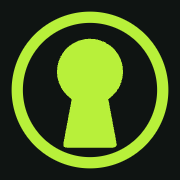
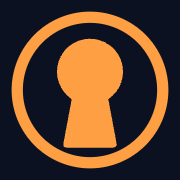
Retheme site to navy and amber palette (#1)
Replace the lime/chartreuse tokens with CSS custom properties for the navy + amber dark theme, update buttons and focus rings, and recolor favicons and platform icons to match while leaving page copy unchanged.

diff --git a/index.html b/index.html
@@ -10,17 +10,19 @@
 <link rel="icon" href="favicon.svg" type="image/svg+xml">
 <link rel="apple-touch-icon" href="apple-touch-icon.png">
 <link rel="manifest" href="site.webmanifest">
-<meta name="theme-color" content="#0F1412">
+<meta name="theme-color" content="#0B1120">
 <link rel="stylesheet" href="https://fonts.googleapis.com/css2?family=Saira+Stencil+One&family=Saira+Condensed:wght@600;700&family=Saira:wght@400;500&display=swap">
 <style>
 :root{
-  --ground:#0F1412;
-  --panel:#151B18;
-  --line:#26302B;
-  --bone:#E9EEE7;
-  --mist:#9AA69F;
-  --lime:#B8F03A;
-  --lime-dim:#7FA92B;
+  --ground:#0B1120;
+  --panel:#121A2C;
+  --line:#26324A;
+  --text:#E8EDF6;
+  --muted:#9AA8C0;
+  --accent:#FF9F43;
+  --accent-hover:#FFB56B;
+  --accent-pressed:#E8862A;
+  --on-accent:#0B1120;
   box-sizing:border-box;
   padding-top:env(safe-area-inset-top,0px);
   padding-bottom:env(safe-area-inset-bottom,0px);
@@ -28,23 +30,23 @@
 html{scroll-padding-top:env(safe-area-inset-top,0px);scroll-behavior:smooth}
 *,*::before,*::after{box-sizing:inherit}
 body{
-  margin:0;background:var(--ground);color:var(--bone);
+  margin:0;background:var(--ground);color:var(--text);
   font-family:'Saira',system-ui,sans-serif;font-size:17px;line-height:1.6;
   -webkit-font-smoothing:antialiased;
 }
-a{color:var(--lime)}
-a:focus-visible,button:focus-visible{outline:2px solid var(--lime);outline-offset:4px}
+a{color:var(--accent)}
+a:focus-visible,button:focus-visible{outline:2px solid var(--accent);outline-offset:2px}
 .wrap{width:min(1100px,100% - 48px);margin-inline:auto}
 
 /* nav */
 .nav{display:flex;align-items:center;justify-content:space-between;padding:28px 0}
-.brand{display:flex;align-items:center;gap:14px;text-decoration:none;color:var(--bone)}
-.brand svg{width:44px;height:44px}
+.brand{display:flex;align-items:center;gap:14px;text-decoration:none;color:var(--text)}
+.brand svg{width:44px;height:44px;color:var(--accent)}
 .brand .word{font-family:'Saira Stencil One',Impact,sans-serif;font-size:22px;letter-spacing:2px;line-height:1}
-.brand .labs{font-family:'Saira Condensed',sans-serif;font-weight:600;font-size:13px;letter-spacing:5px;color:var(--lime);margin-left:8px}
+.brand .labs{font-family:'Saira Condensed',sans-serif;font-weight:600;font-size:13px;letter-spacing:5px;color:var(--accent);margin-left:8px}
 .nav-links{display:flex;gap:28px}
-.nav-links a{color:var(--mist);text-decoration:none;font-size:15px}
-.nav-links a:hover{color:var(--bone)}
+.nav-links a{color:var(--muted);text-decoration:none;font-size:15px}
+.nav-links a:hover{color:var(--text)}
 @media (max-width:640px){.nav-links{display:none}}
 
 /* hero */
@@ -52,20 +54,24 @@ a:focus-visible,button:focus-visible{outline:2px solid var(--lime);outline-offse
 .hero h1{
   font-family:'Saira Condensed',sans-serif;font-weight:700;
   font-size:clamp(56px,8vw,112px);line-height:.92;letter-spacing:-.5px;margin:0 0 28px;
+  color:var(--text);
 }
 .hero h1 span{display:block}
-.hero p{font-size:19px;max-width:34em;color:var(--mist);margin:0 0 36px}
-.hero p strong{color:var(--bone);font-weight:500}
+.hero p{font-size:19px;max-width:34em;color:var(--muted);margin:0 0 36px}
+.hero p strong{color:var(--text);font-weight:500}
 .actions{display:flex;gap:16px;flex-wrap:wrap}
 .btn{
-  display:inline-block;padding:14px 26px;border-radius:6px;text-decoration:none;
+  display:inline-flex;align-items:center;justify-content:center;
+  min-height:44px;padding:10px 26px;border-radius:8px;text-decoration:none;
   font-family:'Saira Condensed',sans-serif;font-weight:600;font-size:18px;letter-spacing:.5px;
 }
-.btn-lime{background:var(--lime);color:var(--ground)}
-.btn-lime:hover{background:#C9F75A}
-.btn-ghost{color:var(--bone);border:1px solid var(--line)}
-.btn-ghost:hover{border-color:var(--mist)}
-.mark{justify-self:center;width:min(100%,380px)}
+.btn:focus-visible{outline:2px solid var(--accent);outline-offset:2px}
+.btn-primary{background:var(--accent);color:var(--on-accent);border:none}
+.btn-primary:hover{background:var(--accent-hover);color:var(--on-accent)}
+.btn-primary:active{background:var(--accent-pressed);color:var(--on-accent)}
+.btn-ghost{color:var(--text);background:transparent;border:2px solid var(--muted)}
+.btn-ghost:hover{border-color:var(--muted);color:var(--text)}
+.mark{justify-self:center;width:min(100%,380px);color:var(--accent)}
 .mark svg{width:100%;height:auto;display:block}
 @media (max-width:860px){
   .hero{grid-template-columns:1fr;padding:24px 0 72px}
@@ -89,53 +95,53 @@ h2{
 @media (max-width:760px){.two{grid-template-columns:1fr;gap:36px}}
 .two h3{
   font-family:'Saira Condensed',sans-serif;font-weight:600;font-size:28px;margin:0 0 12px;
-  padding-left:18px;border-left:4px solid var(--lime);line-height:1.1;
+  padding-left:18px;border-left:4px solid var(--accent);line-height:1.1;
 }
-.two p{color:var(--mist);margin:0 0 14px;max-width:38em}
+.two p{color:var(--muted);margin:0 0 14px;max-width:38em}
 .callout{
   margin-top:48px;padding:28px 32px;background:var(--panel);border-radius:8px;
-  border-left:4px solid var(--lime);max-width:52em;
+  border-left:4px solid var(--accent);max-width:52em;
 }
 .callout p{margin:0;font-size:19px}
-.callout p + p{margin-top:10px;color:var(--mist);font-size:16px}
+.callout p + p{margin-top:10px;color:var(--muted);font-size:16px}
 
 /* tags */
 .tags{margin-top:48px}
 .tags h3{
   font-family:'Saira Condensed',sans-serif;font-weight:600;font-size:14px;letter-spacing:4px;
-  text-transform:uppercase;color:var(--lime);margin:0 0 16px;
+  text-transform:uppercase;color:var(--accent);margin:0 0 16px;
 }
 .tags ul{list-style:none;margin:0;padding:0;display:flex;flex-wrap:wrap;gap:10px}
 .tags li{
-  padding:7px 14px;border:1px solid var(--line);border-radius:999px;
+  padding:7px 14px;border:1px solid var(--muted);border-radius:999px;
   font-family:'Saira Condensed',sans-serif;font-weight:600;font-size:15px;letter-spacing:.5px;
-  color:var(--mist);background:var(--panel);
+  color:var(--muted);background:var(--panel);
 }
-.tags li:hover{border-color:var(--lime-dim);color:var(--bone)}
+.tags li:hover{border-color:var(--muted);color:var(--text)}
 
 /* apps */
 .apps{display:grid;grid-template-columns:repeat(3,1fr);gap:24px}
 @media (max-width:760px){.apps{grid-template-columns:1fr}}
 .app{padding:24px 26px 26px;background:var(--panel);border-radius:8px;border:1px solid var(--line)}
 .app h3{font-family:'Saira Condensed',sans-serif;font-weight:600;font-size:26px;margin:0 0 8px;line-height:1}
-.app p{margin:0;color:var(--mist);font-size:16px}
-.stack{margin-top:24px;color:var(--mist);font-size:15px;max-width:50em}
+.app p{margin:0;color:var(--muted);font-size:16px}
+.stack{margin-top:24px;color:var(--muted);font-size:15px;max-width:50em}
 
 /* founder */
 .founder{display:grid;grid-template-columns:auto 1fr;gap:56px;align-items:center}
 @media (max-width:760px){.founder{grid-template-columns:1fr;gap:32px}}
-.founder p{color:var(--mist);margin:0 0 16px;max-width:38em}
+.founder p{color:var(--muted);margin:0 0 16px;max-width:38em}
 .founder p:last-child{margin-bottom:0}
-.founder p strong{color:var(--bone);font-weight:500}
+.founder p strong{color:var(--text);font-weight:500}
 .portrait{
   width:240px;height:240px;border-radius:50%;object-fit:cover;object-position:center top;display:block;
-  border:4px solid var(--lime);padding:5px;background:var(--ground);
+  border:4px solid var(--accent);padding:5px;background:var(--ground);
 }
 @media (max-width:760px){.portrait{width:180px;height:180px}}
 
 /* contact */
-.contact p{color:var(--mist);max-width:38em;margin:0 0 28px;font-size:19px}
-footer{padding:36px 0 48px;border-top:1px solid var(--line);color:var(--mist);font-size:14px;display:flex;justify-content:space-between;flex-wrap:wrap;gap:12px}
+.contact p{color:var(--muted);max-width:38em;margin:0 0 28px;font-size:19px}
+footer{padding:36px 0 48px;border-top:1px solid var(--line);color:var(--muted);font-size:14px;display:flex;justify-content:space-between;flex-wrap:wrap;gap:12px}
 </style>
 </head>
 <body>
@@ -148,15 +154,15 @@ footer{padding:36px 0 48px;border-top:1px solid var(--line);color:var(--mist);fo
           <clipPath id="ck"><path d="M120 64 A36 36 0 0 1 140 130 L149 178 Q150 183 145 183 H95 Q90 183 91 178 L100 130 A36 36 0 0 1 120 64 Z"/></clipPath>
           <clipPath id="ci"><circle cx="120" cy="120" r="93"/></clipPath>
         </defs>
-        <circle cx="120" cy="120" r="100" fill="none" stroke="#B8F03A" stroke-width="7"/>
+        <circle cx="120" cy="120" r="100" fill="none" stroke="currentColor" stroke-width="7"/>
         <g clip-path="url(#ci)">
-          <path d="M0 118 C 30 102, 50 134, 80 118 S 130 102, 160 118 S 210 134, 240 118" fill="none" stroke="#B8F03A" stroke-width="6" stroke-linecap="round"/>
-          <path d="M0 146 C 30 130, 50 162, 80 146 S 130 130, 160 146 S 210 162, 240 146" fill="none" stroke="#B8F03A" stroke-width="6" stroke-linecap="round"/>
+          <path d="M0 118 C 30 102, 50 134, 80 118 S 130 102, 160 118 S 210 134, 240 118" fill="none" stroke="currentColor" stroke-width="6" stroke-linecap="round"/>
+          <path d="M0 146 C 30 130, 50 162, 80 146 S 130 130, 160 146 S 210 162, 240 146" fill="none" stroke="currentColor" stroke-width="6" stroke-linecap="round"/>
         </g>
-        <path d="M120 64 A36 36 0 0 1 140 130 L149 178 Q150 183 145 183 H95 Q90 183 91 178 L100 130 A36 36 0 0 1 120 64 Z" fill="#B8F03A"/>
+        <path d="M120 64 A36 36 0 0 1 140 130 L149 178 Q150 183 145 183 H95 Q90 183 91 178 L100 130 A36 36 0 0 1 120 64 Z" fill="currentColor"/>
         <g clip-path="url(#ck)">
-          <path d="M0 118 C 30 102, 50 134, 80 118 S 130 102, 160 118 S 210 134, 240 118" fill="none" stroke="#0F1412" stroke-width="10" stroke-linecap="round"/>
-          <path d="M0 146 C 30 130, 50 162, 80 146 S 130 130, 160 146 S 210 162, 240 146" fill="none" stroke="#0F1412" stroke-width="10" stroke-linecap="round"/>
+          <path d="M0 118 C 30 102, 50 134, 80 118 S 130 102, 160 118 S 210 134, 240 118" fill="none" stroke="var(--ground)" stroke-width="10" stroke-linecap="round"/>
+          <path d="M0 146 C 30 130, 50 162, 80 146 S 130 130, 160 146 S 210 162, 240 146" fill="none" stroke="var(--ground)" stroke-width="10" stroke-linecap="round"/>
         </g>
       </svg>
       <span class="word">ROGUE RIVER<span class="labs">LABS</span></span>
@@ -176,7 +182,7 @@ footer{padding:36px 0 48px;border-top:1px solid var(--line);color:var(--mist);fo
       <h1><span>Build it.</span><span>Break it.</span><span>Lock it down.</span></h1>
       <p>Rogue River Labs builds mobile apps and the APIs behind them, and finds where access checks break. <strong>We write the locks, so we know where teams forget to check them.</strong></p>
       <div class="actions">
-        <a class="btn btn-lime" href="#contact">Get in touch</a>
+        <a class="btn btn-primary" href="#contact">Get in touch</a>
         <a class="btn btn-ghost" href="#work">See what we do</a>
       </div>
     </div>
@@ -186,16 +192,16 @@ footer{padding:36px 0 48px;border-top:1px solid var(--line);color:var(--mist);fo
           <clipPath id="hk"><path d="M120 64 A36 36 0 0 1 140 130 L149 178 Q150 183 145 183 H95 Q90 183 91 178 L100 130 A36 36 0 0 1 120 64 Z"/></clipPath>
           <clipPath id="hi"><circle cx="120" cy="120" r="93"/></clipPath>
         </defs>
-        <circle cx="120" cy="120" r="100" fill="none" stroke="#B8F03A" stroke-width="5"/>
-        <path d="M120 5 V14 M120 226 V235 M5 120 H14 M226 120 H235" stroke="#B8F03A" stroke-width="3" stroke-linecap="square"/>
+        <circle cx="120" cy="120" r="100" fill="none" stroke="currentColor" stroke-width="5"/>
+        <path d="M120 5 V14 M120 226 V235 M5 120 H14 M226 120 H235" stroke="currentColor" stroke-width="3" stroke-linecap="square"/>
         <g clip-path="url(#hi)">
-          <path class="river" d="M0 118 C 30 102, 50 134, 80 118 S 130 102, 160 118 S 210 134, 240 118 S 290 102, 320 118" fill="none" stroke="#B8F03A" stroke-width="4" stroke-linecap="round"/>
-          <path class="river slow" d="M0 146 C 30 130, 50 162, 80 146 S 130 130, 160 146 S 210 162, 240 146 S 290 130, 320 146" fill="none" stroke="#B8F03A" stroke-width="4" stroke-linecap="round"/>
+          <path class="river" d="M0 118 C 30 102, 50 134, 80 118 S 130 102, 160 118 S 210 134, 240 118 S 290 102, 320 118" fill="none" stroke="currentColor" stroke-width="4" stroke-linecap="round"/>
+          <path class="river slow" d="M0 146 C 30 130, 50 162, 80 146 S 130 130, 160 146 S 210 162, 240 146 S 290 130, 320 146" fill="none" stroke="currentColor" stroke-width="4" stroke-linecap="round"/>
         </g>
-        <path d="M120 64 A36 36 0 0 1 140 130 L149 178 Q150 183 145 183 H95 Q90 183 91 178 L100 130 A36 36 0 0 1 120 64 Z" fill="#B8F03A"/>
+        <path d="M120 64 A36 36 0 0 1 140 130 L149 178 Q150 183 145 183 H95 Q90 183 91 178 L100 130 A36 36 0 0 1 120 64 Z" fill="currentColor"/>
         <g clip-path="url(#hk)">
-          <path class="river" d="M0 118 C 30 102, 50 134, 80 118 S 130 102, 160 118 S 210 134, 240 118 S 290 102, 320 118" fill="none" stroke="#0F1412" stroke-width="8" stroke-linecap="round"/>
-          <path class="river slow" d="M0 146 C 30 130, 50 162, 80 146 S 130 130, 160 146 S 210 162, 240 146 S 290 130, 320 146" fill="none" stroke="#0F1412" stroke-width="8" stroke-linecap="round"/>
+          <path class="river" d="M0 118 C 30 102, 50 134, 80 118 S 130 102, 160 118 S 210 134, 240 118 S 290 102, 320 118" fill="none" stroke="var(--ground)" stroke-width="8" stroke-linecap="round"/>
+          <path class="river slow" d="M0 146 C 30 130, 50 162, 80 146 S 130 130, 160 146 S 210 162, 240 146 S 290 130, 320 146" fill="none" stroke="var(--ground)" stroke-width="8" stroke-linecap="round"/>
         </g>
       </svg>
     </div>
@@ -286,7 +292,7 @@ footer{padding:36px 0 48px;border-top:1px solid var(--line);color:var(--mist);fo
       <h2>Get in touch</h2>
       <p>Building something with an API behind it? Want a second set of eyes on your access controls? Or just met me at a conference and want to keep talking? LinkedIn is the fastest way to reach me.</p>
       <div class="actions">
-        <a class="btn btn-lime" href="https://www.linkedin.com/" target="_blank" rel="noopener">Connect on LinkedIn</a>
+        <a class="btn btn-primary" href="https://www.linkedin.com/" target="_blank" rel="noopener">Connect on LinkedIn</a>
       </div>
     </div>
   </section>
